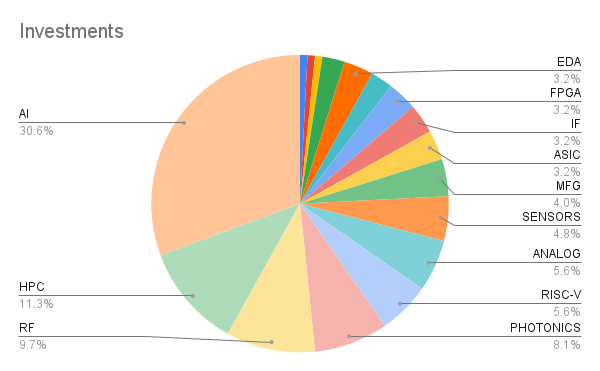
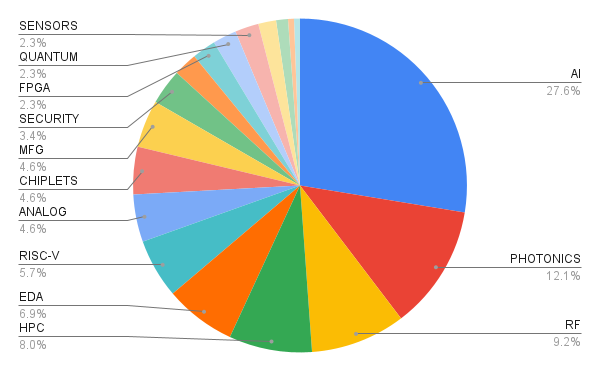
Updating investment summary

diff --git a/README.md b/README.md
@@ -71,13 +71,13 @@
 |[Axelera](https://axelera.ai) | AI | 2021 | NL |Low power AI edge processors |
 |[Ayar Labs](https://ayarlabs.com) | PHOTONICS | 2015 | US |Electronic-photonic communication chipsets |
 |[Baya Systems](https://bayasystems.com) | CHIPLETS | 2023 | US |Chiplet Based Semiconductor Design |
-|[Beam](https://beamshaping.io) | RF | 2015 | IL |Phased array antennas |
 |[Beacon Photonics](https://beaconphotonics) | PHOTONICS | 2023 | US |Integrated photonics platform |
+|[Beam](https://beamshaping.io) | RF | 2015 | IL |Phased array antennas |
 |[Blaize](https://blaize.com) | AI | 2010 | US |Graph streaming processor for AI applications |
 |[Blue Cheetah](https://bcanalog.com) | CHIPLETS | 2018 | US |Rapidly customizable die-to-die interconnect solutions |
 |[Bluespec](https://bluespec.com) | RISC-V | 2003 | US |RISC-V IP and System Development Tools |
 |[CADLAB.io](https://cadlab.io) | EDA | 2015 | US |Collaboration tools for PCB design |
-|[Celera](https://celeratechnologies.com) | ASIC | 2018 | US |Fully-automated analog/mixed-signal IC development tool. |
+|[Celera](https://celeratechnologies.com) | EDA | 2018 | US |Fully-automated analog/mixed-signal IC development tool. |
 |[Celestial AI](https://celestial.ai) | PHOTONICS | 2020 | US |Photonic fabric optical interconnect technoology |
 |[Cellium](https://cellium.net) | RF | 2016 | IL |Wireless infrastructurefor indoor connectivity |
 |[Celtro](https://celtro.de) | HEALTH | 2019 | DE |Energy harvesting self powering implantable medical devices |
@@ -103,11 +103,11 @@
 |[EnCharge AI](https://enchargeai.com) | AI | 2021 | US |AI processing platform |
 |[Eridan](https://eridan.io) | RF | 2013 | US |RF Front End Module for wireless telecommunications |
 |[Esperanto](https://esperanto.ai) | HPC | 2014 | US |Manycore RISC-V compute platform |
-|[Ethernovia](https://ethernovia.com) | COM | 2018 | US |In vehicle networking |
-|[eTopus](https://etopus.com) | COM | 2013 | US |High speed interconnect solutions |
+|[Ethernovia](https://ethernovia.com) | NETWORKING | 2018 | US |In vehicle networking |
+|[eTopus](https://etopus.com) | NETWORKING | 2013 | US |High speed interconnect solutions |
+|[Evacorp](https://evacorp.ai) | AI | 2023 | US |AI processing  |
 |[Exo Imaging](https://exo.inc) | HEALTH | 2015 | US |Handheld ultrasound device |
 |[Extropic](https://extropic.ai) | AI | 2022 | US |Physics based generative AI |
-|[Evacorp](https://evacorp.ai) | AI | 2023 | US |AI processing  |
 |[Fabric Cryptography](https://fabriccryptography.com) | SECURITY | 2021 | US |Cryptography hardware accelerators |
 |[Falcomm ](https://myfalcomm.com) | RF | 2021 | US |Solid state power amplifiers |
 |[Ferric](https://ferric.com) | ANALOG | 2010 | US |Single-chip power converters |
@@ -132,17 +132,19 @@
 |[Ipronics](https://ipronics.com) | PHOTONICS | 2019 | ES |Programmable photonics products |
 |[Jeeva Wireless](https://jeevawireless.com) | RF | 2015 | US |Battery-free wireless sensing technology |
 |[Jitx](https://jitx.com) | EDA | 2016 | US |PCB design tools |
-|[Kandou](https://kandou.com) | COM | 2011 | CH |Chip-to-chip connectivity solutions |
+|[Kandou](https://kandou.com) | NETWORKING | 2011 | CH |Chip-to-chip connectivity solutions |
 |[Kepler Computing](https://keplercompute.com) | HPC | 2018 | US |Stealth |
 |[Kneron](https://kneron.com) | AI | 2015 | US |Edge AI devices |
+|[Krutrim](https://olakrutrim.com) | AI | 2023 | IN |AI hardware |
 |[Lemurian Labs](https://lemurianlabs.com) | AI | 2018 | CA |AI computing platform |
+|[Light Solver](https://lightsolver.com) | PHOTONICS | 2019 | IL |Optical computing platform |
 |[Lightelligence](https://lightelligence.ai) | PHOTONICS | 2017 | US |Optical computing platform |
 |[Lighton](https://lighton.ai) | PHOTONICS | 2015 | FR |Optical computing platform |
 |[Ligthmatter](https://lightmatter.co) | PHOTONICS | 2017 | US |Optical computing platform |
-|[Light Solver](https://lightsolver.com) | PHOTONICS | 2019 | IL |Optical computing platform |
 |[Luminous Computing](https://luminous.com) | PHOTONICS | 2018 | US |Optical computing platform |
 |[MangoBoost](https://mangoboost.io) | HPC | 2022 | US |Data processing units for data center |
 |[Memryx](https://memryx.com) | AI | 2019 | US |AI computing platform |
+|[Mobilint](https://mobilint.com) | AI | 2019 | KR |AI inference accelerators |
 |[Morse Micro](https://morsemicro.com) | RF | 2016 | AU |Low-power Wi-Fi chips |
 |[Movellus](https://movellus.com) | ANALOG | 2014 | US |Clock distribution IP |
 |[Mythic](https://mythic-ai.com) | AI | 2012 | US |Analog ML accelerators |
@@ -159,8 +161,8 @@
 |[One Silicon Chip Photonics](https://onesiliconchipphotonics.com) | PHOTONICS | 2016 | CA |Optical chips for precision motion sensing |
 |[Optalysys](https://optalysys.com) | PHOTONICS | 2013 | UK |Optical computing next-gen cryptography |
 |[Owl](https://owlai.us) | SENSORS | 2018 | US |Monocular 3D thermal ranging solutions |
-|[Ozark ICs](https://ozarkic.com) | ANALOG | 2011 | US |High temperature ruggedized electronics |
 |[Oxford Quantum Circuits](https://oxfordquantumcircuits.com) | QUANTUM | 2017 | UK |Quantum computing platform |
+|[Ozark ICs](https://ozarkic.com) | ANALOG | 2011 | US |High temperature ruggedized electronics |
 |[Perceive](https://perceive.io) | AI | 2015 | US |AI processing for edge devices |
 |[Picocom](https://picocom.com) | RF | 2019 | UK |Semiconductor products designed for 5G small cell infrastructure. |
 |[Pliops](https://pliops.com) | HPC | 2017 | IL |Scalable data handling/acceleration |
@@ -188,12 +190,12 @@
 |[Scintil](https://scintil-photonics.com) | PHOTONICS | 2018 | FR |Photonic computing platform |
 |[Semidynamics](https://semidynamics.com) | RISC-V | 2016 | ES |High performance RISC-V IP cores |
 |[Semifive](https://semifive.com) | ASIC | 2019 | KR |ASIC platform |
-|[Semify](https://semify-eda.com) | FPGA | 2021 | DE |FPGA based platforms |
+|[Semify](https://semify-eda.com) | EDA | 2021 | DE |FPGA based platforms |
 |[Semron](https://semron.ai) | AI | 2020 | DE |AI processing |
 |[SiFive](https://sifive.com) | RISC-V | 2015 | US |RISC-V based IP provider |
 |[SiLC](https://silc.com) | PHOTONICS | 2018 | US |Photonics based imaging sensors |
-|[Silimate](https://silimate.com) | EDA | 2023 | US |Co-pilot for chip designers |
 |[Silicon Box](https://Silicon-box.com) | MFG | 2021 | SG |Manufacturer of semiconductor design and device integration services |
+|[Silimate](https://silimate.com) | EDA | 2023 | US |Co-pilot for chip designers |
 |[SiMa.ai](https://sima.ai) | AI | 2018 | US |AI processing for edge devices |
 |[SiPearl](https://sipearl.com) | HPC | 2019 | FR |Manycore processors for EU exascale supercomputing project |
 |[Skycore Semiconductors](https://skycore-semi.com) | ANALOG | 2021 | DK |Switched capacitor based integrated power converters |
@@ -216,12 +218,13 @@
 |[Usound](https://usound.com) | MEMS | 2012 | AU |Sound solutions based on MEMS technology |
 |[Vayyar](https://vayyar.com) | SENSORS | 2011 | IL |High resolution image sensors |
 |[Ventana Micro](https://ventanamicro.com) | RISC-V | 2018 | US |RISC-V CPU cores and compute subsystems |
+|[VyperCore](https://vypercore.com) | RISC_V | 2022 | UK |RISC-V processors |
 |[Xanadu](https://xanadu.ai) | PHOTONICS | 2016 | US |RISC-V CPU cores and compute subsystems |
 |[Xsight Labs](https://xsightlabs.com) | HPC | 2017 | IL |Chipsets for accelerating data-intensive workloads |
 |[Yorchip](https://yorchip.com) | CHIPLETS | 2023 | US |Chiplet technology |
 |[Zendar](https://zendar.io) | SENSORS | 2017 | US |High resolution software defined radar |
-|[zeroRISC](https://zerorisc.com) | SECURITY | 2023 | US |RoT components |
 |[Zero ASIC](https://zeroasic.com) | CHIPLETS | 2020 | US |Chiplet based ASIC platform |
+|[zeroRISC](https://zerorisc.com) | SECURITY | 2023 | US |RoT components |
 
 ## Alumni
 
@@ -250,6 +253,7 @@
 |Innovium | Marvell | 2021 | $1.1B | [Source](https://techcrunch.com/2021/08/03/marvell-nabs-innovium-for-1-1b-as-it-delves-deeper-into-cloud-ethernet-switches/) |
 |Innoviz | SPAC | 2021 | 371M | [Source](https://www.prnewswire.com/news-releases/innoviz-technologies-and-collective-growth-corporation-announce-closing-of-business-combination-301262031.html) |
 |Kalray | IPO | 2018 | $100M | [Source](https://www.euronext.com/en/about/media/euronext-press-releases/kalray-sintroduit-sur-euronext-growth) |
+|Lucata |  Shutdown | 2024 |  n/a | [Source]( https://www.linkedin.com/posts/marty-deneroff-2a554_sadly-lucata-emu-technology-ceased-operations-activity-7168985090331500544-xy_D) |
 |Kameleon | Ramon Space | 2022 | N/A | [Source](https://www.startuphub.ai/ai-exit-events/ramon-space-merges-with-kameleon/) |
 |Mathstar | Shutdown | 2008 | $0 | [Source](https://www.oregonlive.com/business/2008/05/mathstar_calls_it_quits.html) |
 |Minima | Acquired | NA | NA | [Source](https://www.acuity.co.uk/successes/acuity-advises-minima-on-its-sale-to-bosch/) |
